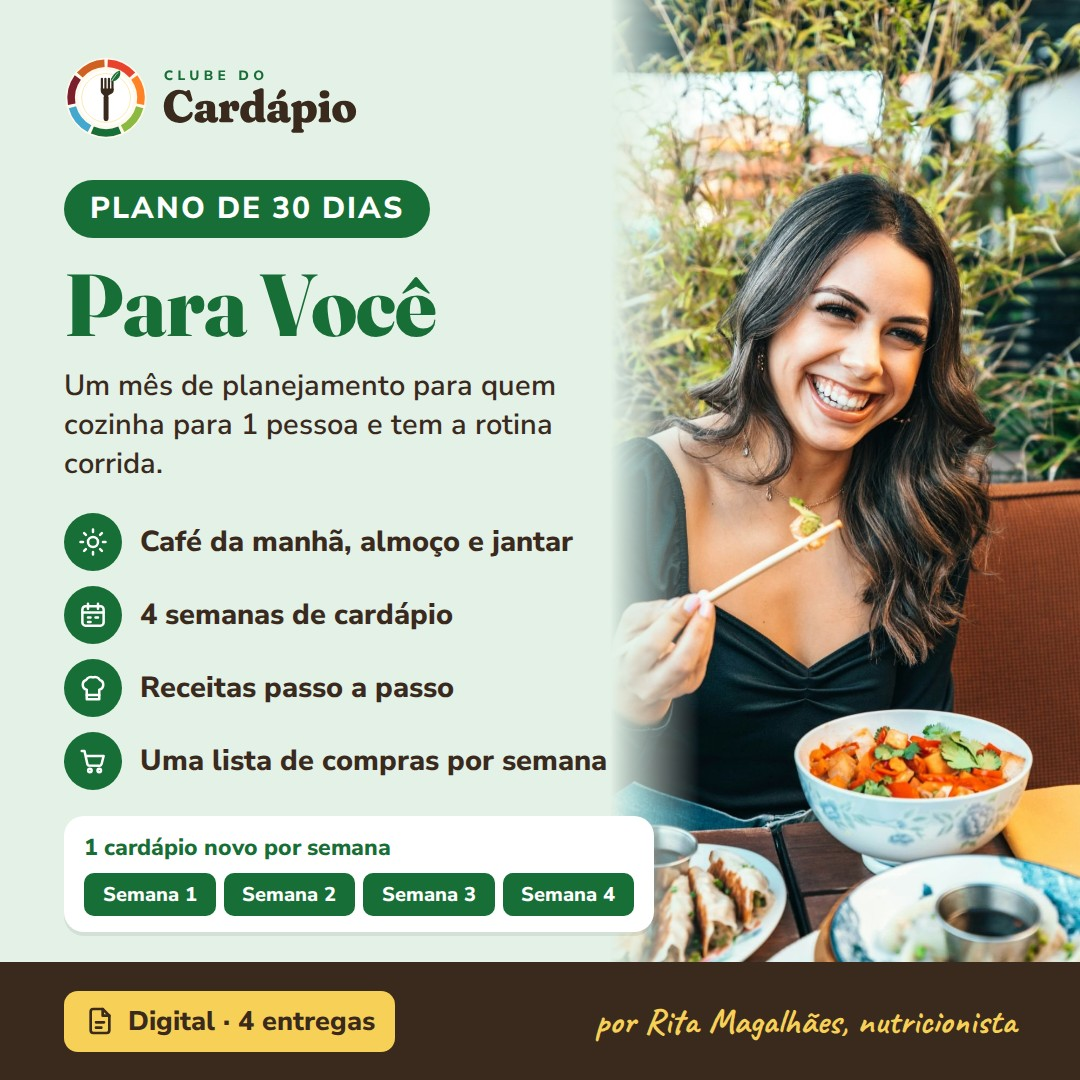
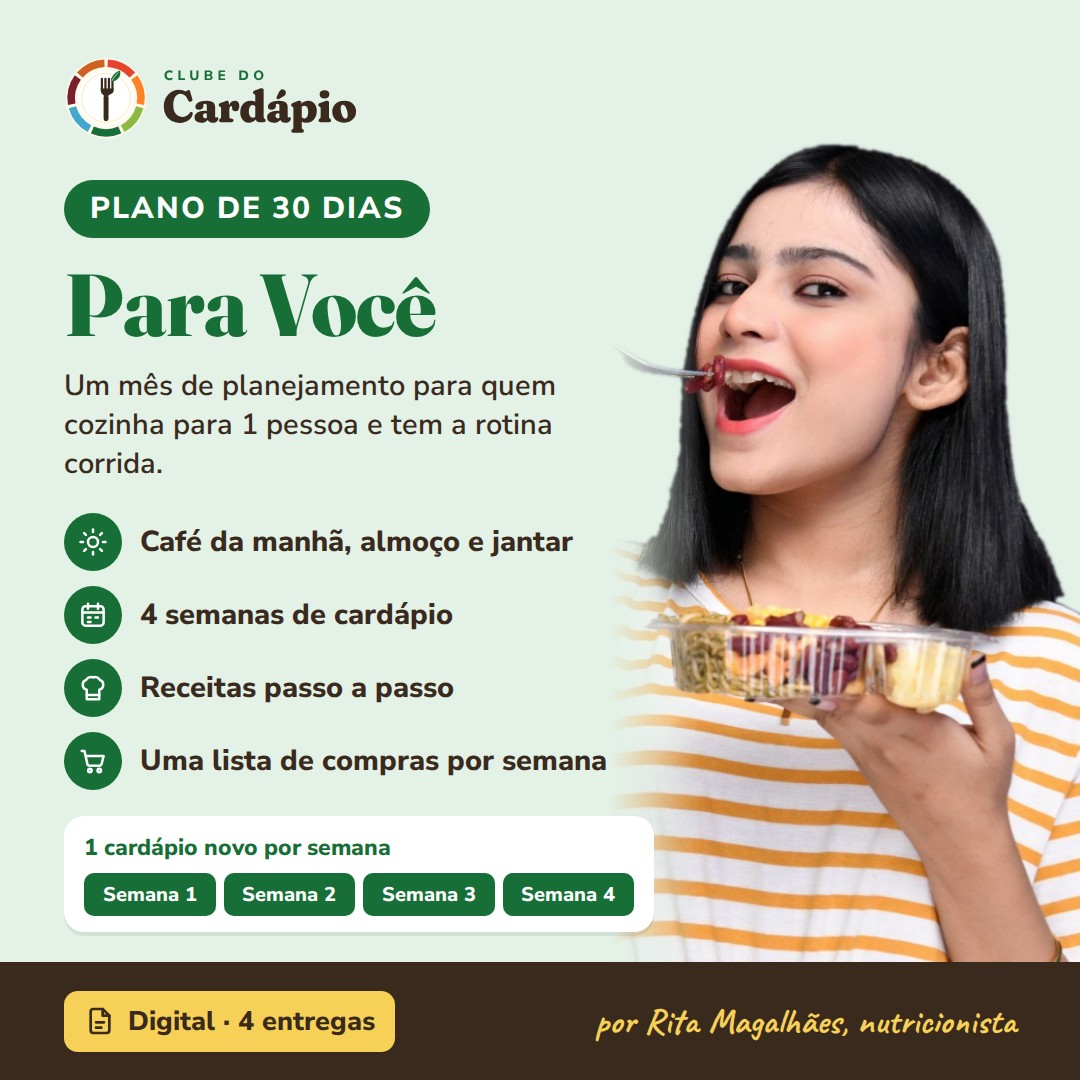
Artes Eduzz Para Você com fotos de marmita (preparando em casa e comendo)
Claude-Session: https://claude.ai/code/session_011dvyRhPNz3FX2TnzhsmVBS

diff --git a/docs/marca/eduzz/voce-30.html b/docs/marca/eduzz/voce-30.html
@@ -1,6 +1,6 @@
 <html><head><link rel="stylesheet" href="/tmp/claude-0/-home-user-Clubedo-cardapio/ef7db377-9c08-5500-8586-2275101b0650/scratchpad/hero/fonts.css"><style>
 *{box-sizing:border-box;margin:0;padding:0} body{width:1080px;height:1080px;background:#E3F1E6;font-family:Nunito;color:#3A2A1E;position:relative;overflow:hidden}
-.foto{position:absolute;right:0;top:0;width:470px;height:1080px;background:url(/home/user/Clubedo-cardapio/images/banco/mulher-sorrindo-refeicao.jpg) 55% 50%/cover;border-radius:0 0 0 0}
+.foto{position:absolute;right:0;top:0;width:470px;height:1080px;background:url(/home/user/Clubedo-cardapio/images/banco/mulher-comendo-marmita-fundo-verde.jpg) 55% 30%/auto 1150px;border-radius:0 0 0 0}
 .foto:before{content:"";position:absolute;inset:0;background:linear-gradient(90deg,#E3F1E6 0,#E3F1E600 90px)}
 .col{position:absolute;left:64px;top:56px;width:590px}
 .logo{height:84px;display:block;margin-bottom:40px}

diff --git a/docs/marca/eduzz/voce-7.html b/docs/marca/eduzz/voce-7.html
@@ -1,6 +1,6 @@
 <html><head><link rel="stylesheet" href="/tmp/claude-0/-home-user-Clubedo-cardapio/ef7db377-9c08-5500-8586-2275101b0650/scratchpad/hero/fonts.css"><style>
 *{box-sizing:border-box;margin:0;padding:0} body{width:1080px;height:1080px;background:#FFF8EC;font-family:Nunito;color:#3A2A1E;position:relative;overflow:hidden}
-.foto{position:absolute;right:0;top:0;width:470px;height:1080px;background:url(/home/user/Clubedo-cardapio/images/banco/mulher-saboreando-refeicao.jpg) 58% 40%/auto 1180px;border-radius:0 0 0 0}
+.foto{position:absolute;right:0;top:0;width:470px;height:1080px;background:url(/home/user/Clubedo-cardapio/images/banco/mulher-preparando-marmita.jpg) 55% 50%/auto 1080px;border-radius:0 0 0 0}
 .foto:before{content:"";position:absolute;inset:0;background:linear-gradient(90deg,#FFF8EC 0,#FFF8EC00 90px)}
 .col{position:absolute;left:64px;top:56px;width:590px}
 .logo{height:84px;display:block;margin-bottom:40px}

diff --git a/images/banco/LEIA-ME.md b/images/banco/LEIA-ME.md
@@ -11,9 +11,11 @@ Os recortes quadrados usados no tablet do HERO ficam em `images/pratos/`.
 | `casal-idoso-cozinhando.jpg` | /idosos: seção "para quem cuida" |
 | `familia-mesa-cafe.jpg` | /familias e arte Eduzz Famílias 7 dias |
 | `familia-cozinhando.jpg` | /familias e arte Eduzz Famílias 30 dias |
-| `mulher-saboreando-refeicao.jpg` | /para-voce e arte Eduzz Para Você 7 dias |
-| `mulher-sorrindo-refeicao.jpg` | /para-voce e arte Eduzz Para Você 30 dias |
+| `mulher-saboreando-refeicao.jpg` | reserva (foto em restaurante) |
+| `mulher-sorrindo-refeicao.jpg` | reserva (foto em restaurante) |
 | `marmitas-recorte.jpg` | /para-voce: seção "prepare a semana" (recorte só das marmitas; não usar a foto original com o corpo) |
+| `mulher-preparando-marmita.jpg` | /para-voce (topo) e arte Eduzz Para Você 7 dias |
+| `mulher-comendo-marmita-fundo-verde.jpg` / `-fundo-creme.jpg` | Arte Eduzz Para Você 30 dias e /para-voce (fundo roxo original trocado pelas cores da marca) |
 
 ## Café da manhã
 `cafe-ovos-panquecas-suco`, `cafe-torrada-ovo-tomate`, `cafe-torrada-ovo-abacate`,
